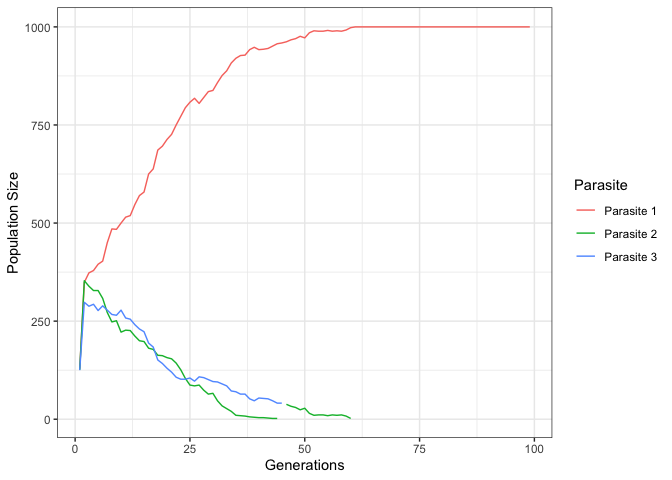
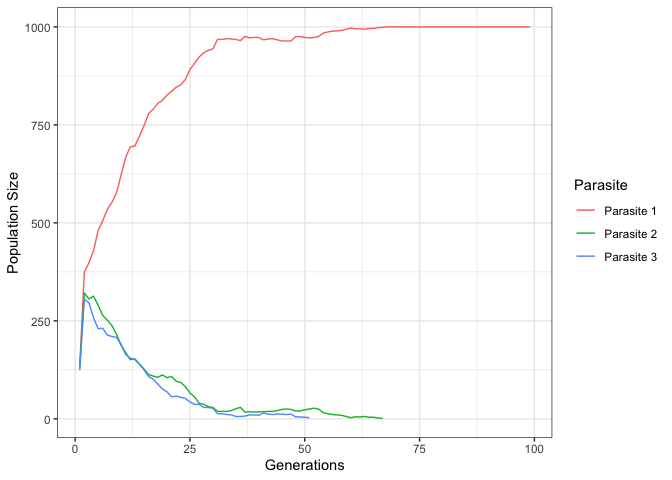
Update README.Rmd and man file.

diff --git a/README.md b/README.md
@@ -1,7 +1,7 @@
 Simulating host parasite dynamics
 ================
 Max R Brown
-09 December, 2019
+17 December, 2019
 
 I am completely new to modelling host-parasite dynamics. I just thought
 it would be interesting to do, as I have been investigating this with
@@ -87,13 +87,13 @@ sim1 <- manyhost_manyparasite(field.size = 25^2, interaction.matrix = matrix(3, 
 sim1.2 <- setDT(sim1[[3]])
 
 head(sim1.2)
-#>    Population Size   Parasite Generation
-#> 1:              15 Parasite 1          1
-#> 2:              36 Parasite 1          2
-#> 3:              72 Parasite 1          3
-#> 4:             139 Parasite 1          4
-#> 5:             260 Parasite 1          5
-#> 6:             400 Parasite 1          6
+#>      Parasite Generation Population Size
+#> 1: Parasite 1          1              12
+#> 2: Parasite 1          2              22
+#> 3: Parasite 1          3              51
+#> 4: Parasite 1          4              94
+#> 5: Parasite 1          5             185
+#> 6: Parasite 1          6             359
 ```
 
 A plot can then be generated using the
@@ -126,7 +126,7 @@ int.mat <- matrix(c(1,2,3), 3, 1, dimnames = list(c("Host 1", "Host 2", "Host 3"
 
 sim3 <- manyhost_manyparasite(field.size = 25^2, interaction.matrix = int.mat, host.number = c(200,200, 200) , parasite.number = 10, gens = 100)
 
-ggplot(sim3[[1]], aes(x = as.numeric(Generation), y = `Population Size`, group = `Host-Parasite`))+ geom_line(aes(colour = `Host-Parasite`)) + theme_bw() + xlab(label = "Generations") + ylab(label = "Population Size")
+ggplot(sim3[[1]], aes(x = as.numeric(Generation), y = Seed, group = `Host-Parasite`))+ geom_line(aes(colour = `Host-Parasite`)) + theme_bw() + xlab(label = "Generations") + ylab(label = "Seed output")
 ```
 
 ![](README_files/figure-gfm/unnamed-chunk-5-1.png)<!-- -->
@@ -149,7 +149,7 @@ int.mat <- matrix(c(10,9,9), 1, 3, dimnames = list(c("Host 1"), c("Parasite 1", 
 sim4 <- manyhost_manyparasite(field.size = 40^2, interaction.matrix = int.mat, host.number = c(1000), parasite.number = c(200,200,200), gens = 100)
 
 ggplot(sim4$Pop.Size.Para, aes(x = as.numeric(Generation), y = `Population Size`, group = `Parasite`))+ geom_line(aes(colour = `Parasite`)) + theme_bw() + xlab(label = "Generations") + ylab(label = "Population Size")
-#> Warning: Removed 93 rows containing missing values (geom_path).
+#> Warning: Removed 80 rows containing missing values (geom_path).
 ```
 
 ![](README_files/figure-gfm/unnamed-chunk-6-1.png)<!-- -->
